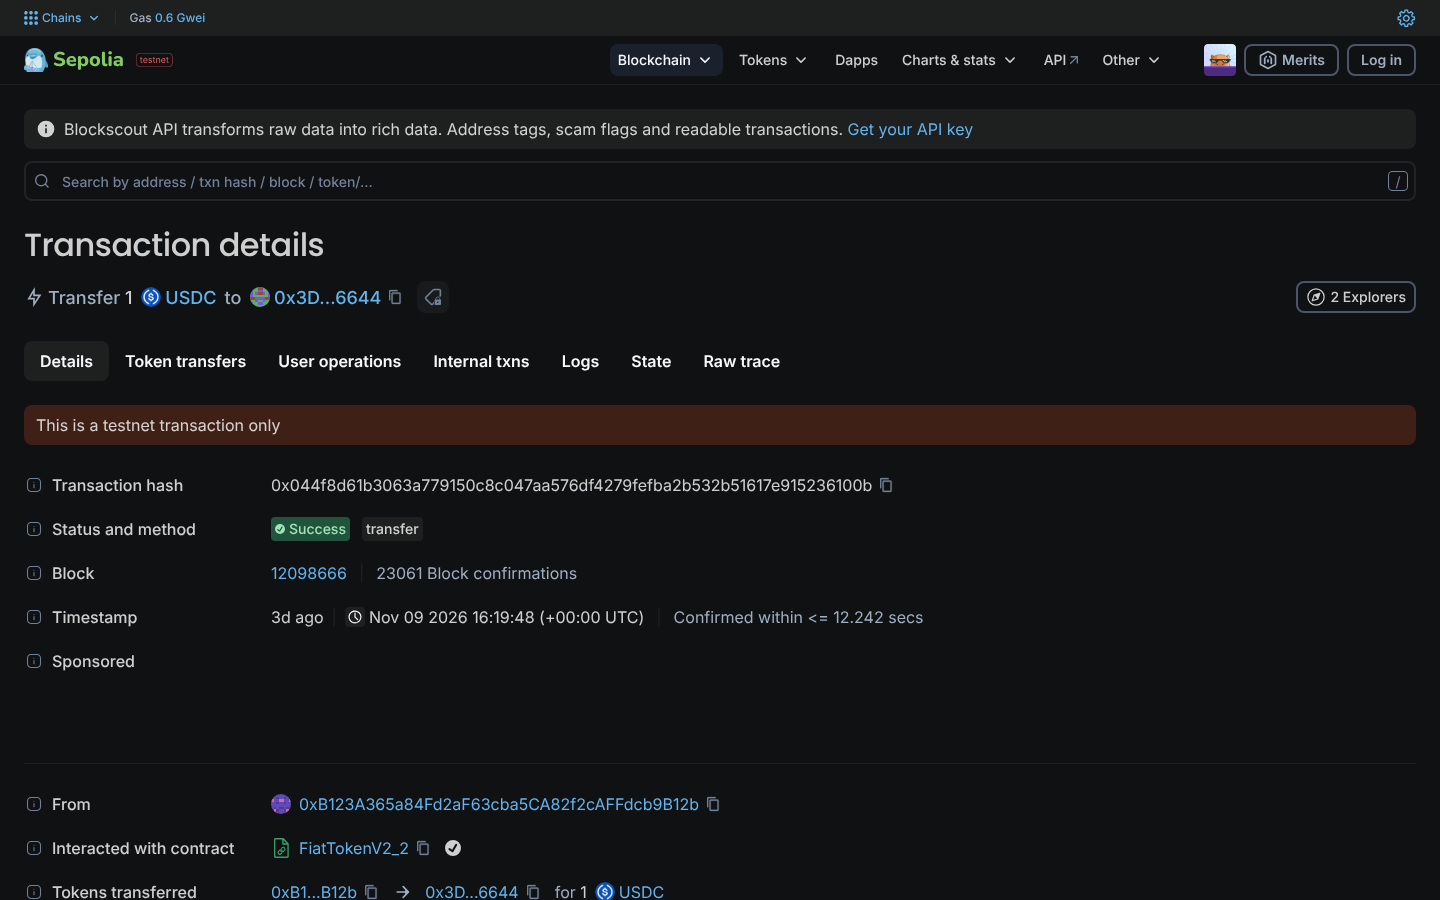
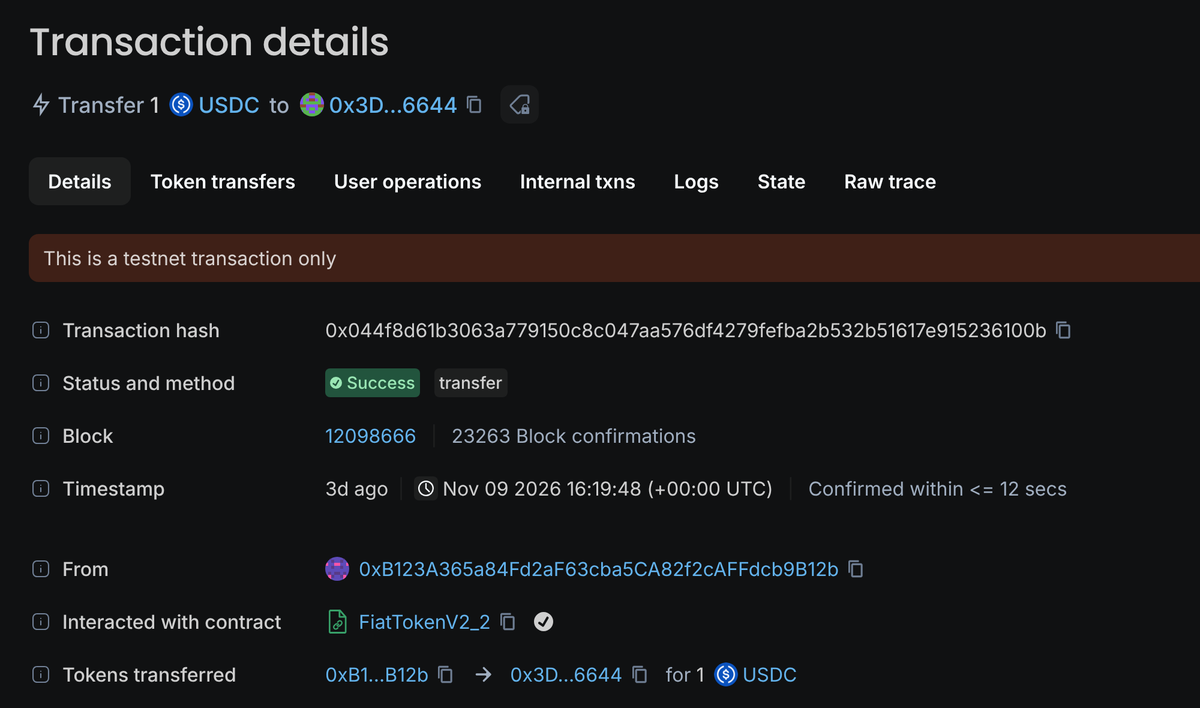
README images: the phishing GIF full width, dashboard and a readable Sepolia payout side by side

diff --git a/README.md b/README.md
@@ -19,10 +19,14 @@ Tracks: Autonomous Business (`business`), AI Security & Defense (`security`), Re
 
 **[Live app](https://keel-treasury.vercel.app)** · **[Code](https://github.com/Ultraviolet01/Keel)** · **[What was verified on testnet](docs/VERIFIED.md)** · **[Security, each claim with its line of code](docs/SECURITY.md)**
 
-| The dashboard | A phishing bill, refused twice | Paid on Sepolia by the vault itself |
-| --- | --- | --- |
-| [![Berth's dashboard: 28 USDC, items waiting for the founder, the balance chart](docs/images/dashboard.png)](https://keel-treasury.vercel.app/app?view=keel-founder5-39175.testnet) | ![Keel refuses the "supplier changed bank details" bill and signs nothing; forced to pay it, the vault refuses too](docs/images/scam-refused.gif) | [![Blockscout: 1 USDC transfer, Success, from the vault's own address 0xB123…B12b](docs/images/sepolia-payout.png)](https://eth-sepolia.blockscout.com/tx/0x044f8d61b3063a779150c8c047aa576df4279fefba2b532b51617e915236100b) |
-| `berth.keel.testnet`, read-only on the live app | Real output: Keel's round on `berth`, then the attack suite forcing Keel's key to pay | A routine bill Keel paid alone inside the owner's Ethereum Sepolia cap (VERIFIED item 17) |
+**A phishing bill, refused twice.** Real output: Keel's round on `berth.keel.testnet` refuses the "supplier changed bank details" bill and signs nothing; then the attack suite forces Keel's key to pay it, and the vault refuses too.
+
+![Keel refuses the "supplier changed bank details" bill and signs nothing; forced to pay it, the vault refuses with "payee is on the blocklist"](docs/images/scam-refused.gif)
+
+| The dashboard, read-only on the live app | Paid on Ethereum Sepolia by the vault itself |
+| --- | --- |
+| [![Berth's dashboard: 28 USDC, items waiting for the founder, the balance chart](docs/images/dashboard.png)](https://keel-treasury.vercel.app/app?view=keel-founder5-39175.testnet) | [![Blockscout: Transfer 1 USDC, Success, block 12098666, from the vault's own address 0xB123…B12b](docs/images/sepolia-payout.png)](https://eth-sepolia.blockscout.com/tx/0x044f8d61b3063a779150c8c047aa576df4279fefba2b532b51617e915236100b) |
+| `berth.keel.testnet`: balance, bills, Keel's decisions and what waits for the owner | A routine bill Keel paid alone inside the owner's Ethereum Sepolia cap, sent from the vault's own address (VERIFIED item 17) |
 
 Run `npm run verify` from a fresh clone (Node.js 22). The last line is `VERIFY PASSED: 17 passed, 0 failed, 0 skipped`: typechecks, agent and app tests, the app build, 161 contract tests, two testnet dry runs, and four cross-chain payments read back from their chains.
 
